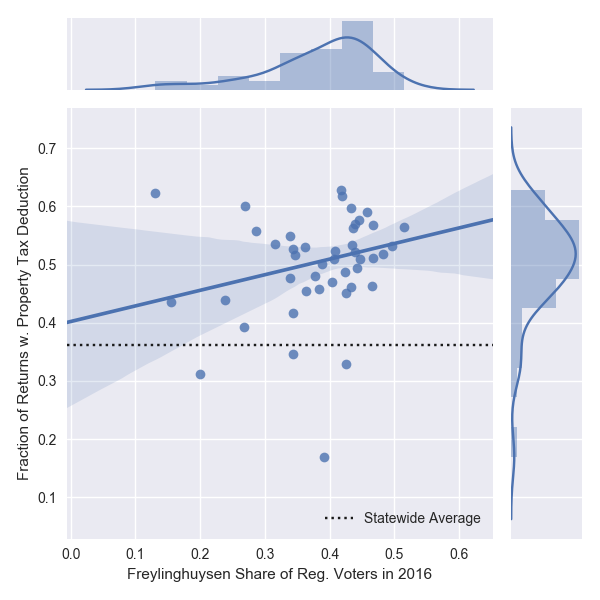
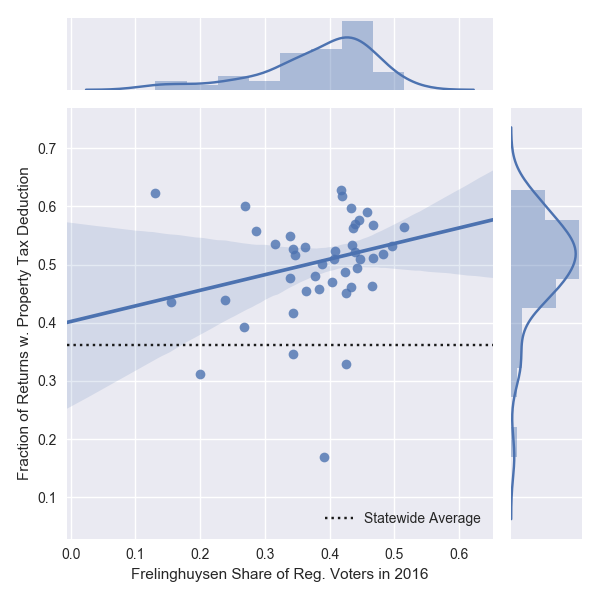
Added lots of comments to njsalt example

Changed region(s): [[0.21, 0.93, 0.72, 0.99]]

diff --git a/Sep2017_NJSALT/NJ11SALT.py b/Sep2017_NJSALT/NJ11SALT.py
@@ -1,32 +1,77 @@
 
+#Import packages
+#the os package is for some miscellaneous file operations
 import os
+
+#pandas is for analyzing and storing data
+#geopandas is pandas 
+#                    + a package for reading and writing shapefiles called fiona
+#                    + a package for computational geometry called shapely
 import pandas as pd
 import geopandas as gpd
+
+#Numpy is a generic python math library
 import numpy as np
+
+#matplotlib is for plotting
 import matplotlib.pyplot as plt
 import matplotlib
 from matplotlib.ticker import FormatStrFormatter
 from matplotlib.ticker import MaxNLocator
-import utlUtilities as utl
+
+#Seaborn is a statistical visualization package that is built on top of matplotlib
+#The set color codes bit sets a bunch of options that generally make plots look nicer than the matplotlib defaults
 import seaborn as sns
 sns.set(color_codes=True)
+
+#Cascaded union lets you efficiently join multiple contiguous areas into one area
 from shapely.ops import cascaded_union
 
+#These are assorted functions that I wrote, for this script I use a cutom function for plotting shapefiles
+import utlUtilities as utl
+
+#The tax data is in a csv file which I cleaned a little from the raw excel off the irs website
+#the dtype option tells pandas to read the Zip column as a string of characters, because by
+#default it will assume it is numeric data and for example 07940 would be read as 7940.0
 df = pd.read_csv("15zp31nj.csv",dtype={"Zip":object})
+
+#Now we want to get rid of some rows in the data frame because the csv had some blank rows, and also some rows 
+#that correspond to breakdowns by income within a zip code and we only want the summary for the whole zip.
+#This method selects row where a condition is true. Below the condition is ~df["Zip"].isnull(). 
+#df["Zip"].isnull() means rows where the value of the column Zip is blank, the ~ in front means not.
+#So we are making a data frame from the original data frame where the zip code column is not blank, and then
+#Overwrite the old data frame with the new one. This gets rid of the blank rows. Similarly, the second line
+#Selects only rows where the income category is empty, which is overall zip code summary
 df = df[~df["Zip"].isnull()]
 df = df[df["Categoty"].isnull()]
+
+
+#This is not really needed but here all columns except the relvant ones are dropped. Instead of using a 
+#Condition to select columns, they are manualy specified in a list
 df = df[["Zip","(1)","(62)","(63)","(64)","(65)","(66)","(67)"]]
-for col in df.columns:
-    if col == "Zip": continue
+
+#The numbers in the dataframe have commas and so python thinks they are character strings and not numbers 
+#We want to remove the commas and then convert the strings to numbers. Below, we select all of the columns
+#In the dataframe (skipping the zip column) and do the conversion
+cols = ["(1)","(62)","(63)","(64)","(65)","(66)","(67)"]
+for col in cols:
     df[col] = df[col].str.replace(",","")
     df[col] = df[col].astype(np.float64)
 
-totalSALT = df["(63)"].sum()/df["(62)"].sum() + df["(65)"].sum()/df["(64)"].sum() + df["(67)"].sum()/df["(66)"].sum()
-totalSALT2 = (df["(63)"].sum() + df["(65)"].sum() + df["(67)"].sum())/df["(1)"].sum()
+#These are the statewide averages for the proportion of returns using S&L income and property tax deductions
+#For example df["(62)"].sum() means add upp all the rows in the column named "(62)" in the data frame
 SLFrac = df["(62)"].sum()/df["(1)"].sum()
 REFrac = df["(66)"].sum()/df["(1)"].sum()
 
+totalSALT = df["(63)"].sum()/df["(62)"].sum() + df["(65)"].sum()/df["(64)"].sum() + df["(67)"].sum()/df["(66)"].sum()
+totalSALT2 = (df["(63)"].sum() + df["(65)"].sum() + df["(67)"].sum())/df["(1)"].sum()
+
 #Municipality group to zip group mapping
+#This uses a python data structure called a dictionary. A dictionary has a keys which correspond to values
+#The key is basically an identifier for the value. In this case the key is the name of a census county
+#subdivision (or group of subdivisions) and the value is a list of zip codes. So the dictionary tells us
+#Which zip codes are associated with a group of municipalities. All the info is entered manually since I
+#Don't know how to automate this
 muniGroup2Zips = {}
 muniGroup2Zips["Bloomfield"]   = ["07003"]
 muniGroup2Zips["Bloomingdale"] = ["07403"]
@@ -74,17 +119,31 @@ muniGroup2Zips["Wayne"] = ["07470"]
 muniGroup2Zips["West Orange"] = ["07052"]
 
 #zip code to municipality group mapping
+#This is a dictionary which represents the inverse of the muni2Zip mapping.
+#Instead of telling us zip codes that are associated with a muni group, it
+#Tells us which muni group a zip code belongs to We construct it by looping 
+#over all of the zip codes and making a dictionary where the keys are zip codes
 zip2MuniGroup = {}
 for key,value in muniGroup2Zips.iteritems():
     for zipCode in value:
 	zip2MuniGroup[zipCode] = key
 
+#This filters out all of the non NJ11 zip codes in our tax data
 df = df[df["Zip"].isin(zip2MuniGroup.keys())]
 
-#Add muni group and group all zips with the same group
+#Now we add a column to the tax data frame for muni group since we want to
+#eventually merge all zips in the same muni group. The line below creates a new
+#column by apply a function to Zip column. In this case, the function just uses
+#the zip to muni group dictionary to look up the muni group name for each zip
 df["MuniGroup"] = df["Zip"].apply(lambda x: zip2MuniGroup[x])
+
+#This is one line of code that does a lot of work. Groupby collects data into
+#groups so that each group consists of rows which have the same value of the
+#column MuniGroup. The .sum() means that pandas will make new rows that are the 
+#sum of the all of the values within a group
 df = df.groupby("MuniGroup",as_index=False).sum()
 
+#Add new columns to the grouped data frame for the SALT stats in each zip code group
 #total salt using method from nj.com
 df["totalSALT"] = df["(63)"]/df["(62)"] + df["(65)"]/df["(64)"] + df["(67)"]/df["(66)"]
 
@@ -94,6 +153,11 @@ df["totalSALT2"] = (df["(63)"] + df["(65)"] + df["(67)"])/df["(1)"]
 df["SLFrac"] = df["(62)"]/df["(1)"]
 df["REFrac"] = df["(66)"]/df["(1)"]
 
+#Now we read in a csv file with the voting data. We need to eventually merge this
+#with tax data, but first we need to make sure that merge municipalities into groups 
+#that match the zip code groups. Note that all of this business is not usually needed
+#and it is just because we have tax data by zip and voting data by muni and they don't
+#match up too nicely
 dfVotes = pd.read_csv("2016Votes_RVs.csv")
 #Municipality group to municipality mapping
 muniGroup2Munis = {}
@@ -142,6 +206,8 @@ muniGroup2Munis["Wanaque"] = ["wanaque"]
 muniGroup2Munis["Wayne"] = ["wayne"]
 muniGroup2Munis["West Orange"] = ["west orange"]
 
+#We get the muni to muni group mapping similar to before. The groupby operation
+#on the voting data is also similar to before
 #muni to municipality group mapping
 muni2MuniGroup = {}
 for key,value in muniGroup2Munis.iteritems():
@@ -153,14 +219,21 @@ dfVotes["MuniGroup"] = dfVotes["NAME"].apply(lambda x: muni2MuniGroup[x])
 
 dfVotes = dfVotes.groupby("MuniGroup",as_index=False).sum()
 dfVotes["Rfrac"] = dfVotes["RF"]/dfVotes["Registered Voters"]
-print dfVotes
+
+#We now have two data frames corresponding to our muni groups. df has the tax data
+#and dfVotes has the voting data. They get merged together with pd.merge. The on 
+#option let's us specify how we want to merge. In this case the two data frames are
+#matched by the values in the muniGroup column
 df = pd.merge(df,dfVotes,on="MuniGroup")
 
+#These are a bunch of plots using seaborn's jointplot function which is like a scatter
+#plot with extra whistles and bells. Here we're asking it to also do a robust linear 
+#regression on the data we're comparing
 plt.figure()
 g = sns.jointplot(df["Rfrac"].values,df["SLFrac"].values,kind="reg",robust=True)
 g.ax_joint.axhline(SLFrac,color='k',ls=":",label="State wide average")
 g.ax_joint.legend(loc=4)
-g.ax_joint.set_xlabel("Freylinghuysen Share of Reg. Voters in 2016")
+g.ax_joint.set_xlabel("Frelinghuysen Share of Reg. Voters in 2016")
 g.ax_joint.set_ylabel("Fraction of Returns w. S&L Income Tax Deduction")
 plt.tight_layout()
 plt.savefig("SLFrac.png")
@@ -170,7 +243,7 @@ plt.figure()
 g = sns.jointplot(df["Rfrac"].values,df["REFrac"].values,kind="reg",robust=True)
 g.ax_joint.axhline(REFrac,color='k',ls=":",label="Statewide Average")
 g.ax_joint.legend(loc=4)
-g.ax_joint.set_xlabel("Freylinghuysen Share of Reg. Voters in 2016")
+g.ax_joint.set_xlabel("Frelinghuysen Share of Reg. Voters in 2016")
 g.ax_joint.set_ylabel("Fraction of Returns w. Property Tax Deduction")
 plt.tight_layout()
 plt.savefig("REFrac.png")
@@ -179,7 +252,7 @@ plt.figure()
 g = sns.jointplot(df["Rfrac"].values,df["totalSALT"].values,kind="reg",robust=True)
 g.ax_joint.axhline(totalSALT,color='k',ls=":",label="Statewide Average")
 g.ax_joint.legend(loc=4)
-g.ax_joint.set_xlabel("Freylinghuysen Share of Reg. Voters in 2016")
+g.ax_joint.set_xlabel("Frelinghuysen Share of Reg. Voters in 2016")
 g.ax_joint.set_ylabel("Total SALT Deductions, $1000's")
 plt.tight_layout()
 plt.savefig("totalSALT.png")
@@ -188,13 +261,19 @@ plt.figure()
 g = sns.jointplot(df["Rfrac"].values,df["totalSALT2"].values,kind="reg",robust=True)
 g.ax_joint.axhline(totalSALT2,color='k',ls=":",label="Statewide Average")
 g.ax_joint.legend(loc=4)
-g.ax_joint.set_xlabel("Freylinghuysen Share of Reg. Voters in 2016")
+g.ax_joint.set_xlabel("Frelinghuysen Share of Reg. Voters in 2016")
 g.ax_joint.set_ylabel("SALT Deductions per Return, $1000's")
 plt.tight_layout()
 plt.savefig("totalSALT2.png")
 
+#Now we're going to use geopandas to load in the NJ11 municipality shape file
 gdf = gpd.read_file(os.path.join("NJ11Shapefiles","NJ11Cousub.shp"))
 
+#Since we had to merge municipal data, we also have to merge the shapes. To
+#make sure that the merged shapes are in the same order as out tax + voting 
+#data frame, we make a list of merged geometries by looping over each row
+#of the data frame, grabbing all of the municipal shapes for a muni group,
+#and merging them
 mergedGeom = []
 for idx,row in df.iterrows():
     mg = row["MuniGroup"]
@@ -202,18 +281,25 @@ for idx,row in df.iterrows():
     geoms = gdf[gdf["NAME"].isin(munis)].geometry.values
     mergedGeom.append(cascaded_union(geoms))
 
+#Now we make a geodataframe with our tax+voting data and the merged geometries
+#The crs option specifies the coordinate system. epsg:4269 is the default for 
+#all census shape files as far as I know. 
 gdf = gpd.GeoDataFrame(df, crs={'init': u'epsg:4269'}, geometry=mergedGeom)
+#This changes the coordinate system to an albers equal area projection for better plotting in 2D
 gdf = gdf.to_crs({"+proj":"aea +lat_1=29.5 +lat_2=45.5 +lat_0=37.5 +lon_0=-96 +x_0=0 +y_0=0 +datum=NAD83 +units=m +no_defs"})
 
+#This gives us the SALT data in munis relative to state averages
 gdf["REFrac"] = gdf["REFrac"] - REFrac
 gdf["SLFrac"] = gdf["SLFrac"] - SLFrac
 
-print "State Avg RE, SL"
-print REFrac,SLFrac
 
+#This is a way to get the coordinates of a point that is inside each of our shapes
+#The point will be used to annotate the plot in a moment
 gdf['coords'] = gdf['geometry'].apply(lambda x: x.representative_point().coords[:])
 gdf['coords'] = [coords[0] for coords in gdf['coords']]
 
+#These plot maps with the data using a custom function with options on specifying color schemes
+#Color bars, annotations, etc. 
 fig,ax = plt.subplots(figsize=(13,9.5))
 fig,ax = utl.plotGDF("REMap.png",gdf,None,colorby="data",colorCol='REFrac',cmap=plt.cm.bwr,fig=fig,ax=ax,Annotate="MuniGroup",AnnCoords="coords",climits=(-0.3,0.3))
 plt.close()
@@ -225,5 +311,5 @@ plt.close()
 fig,ax = plt.subplots(figsize=(13,9.5))
 fig,ax = utl.plotGDF("thumb.png",gdf,None,colorby="data",colorCol='SLFrac',cmap=plt.cm.bwr,fig=fig,ax=ax,cbar=False)
 plt.close()
-
+#The end
 
